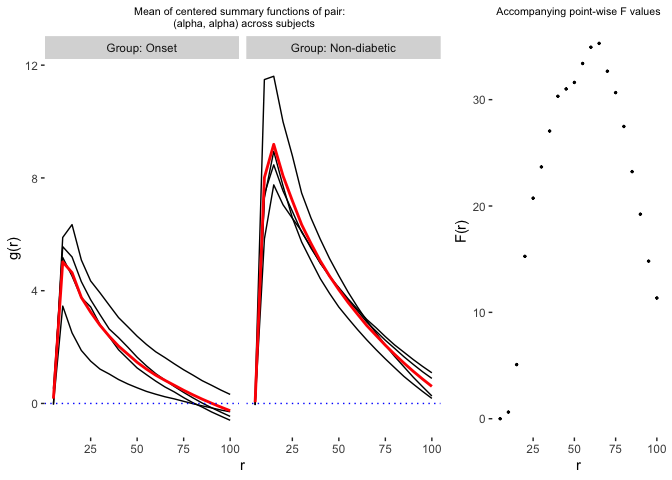
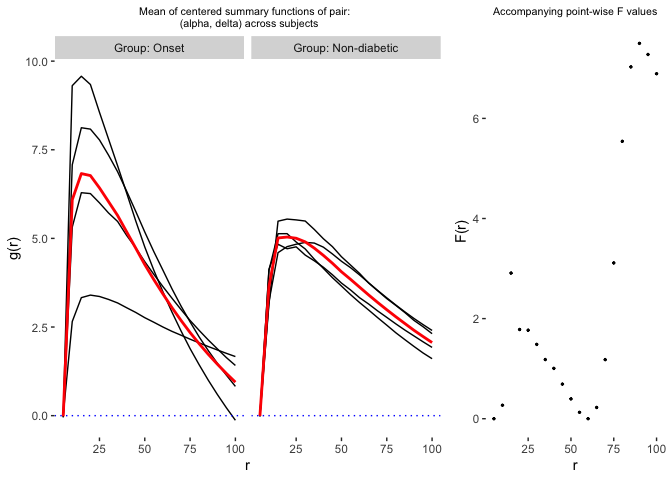
Editing RMD

diff --git a/README.md b/README.md
@@ -68,7 +68,7 @@ IMC_T1DM %>% group_by(Group, ID) %>% reframe(n = n()) # check group and subject 
 # 8 Onset        6380  129456
 ```
 
-## Compute the summary functions and perform association analysis
+## Computing the summary functions and performing association analysis
 
 This function can be used to perform the entire analysis at one go,
 starting from summary function estimation to the univariate and
@@ -103,20 +103,13 @@ p_res = p_extract(Final_result)
 Univ_p = p_res[[1]]
 Mult_p = p_res[[2]]
 print(Univ_p)
-#              Others           Tc           Th        alpha        delta
-# Others 7.024697e-01 1.573991e-01 0.6382938507 6.674092e-15 5.816769e-05
-# Tc     1.586754e-01 1.184891e-05 0.6527697145 6.337346e-10 2.884948e-01
-# Th     6.580101e-01 6.696070e-01 0.1670743225 3.603094e-03 7.285186e-04
-# alpha  5.226819e-15 4.773142e-10 0.0054382865 1.354056e-12 1.578452e-04
-# delta  7.196331e-05 2.449268e-01 0.0002732137 1.480241e-04 5.430399e-05
-# beta   7.662073e-02 2.182450e-01 0.0182817150 5.314018e-02 1.998622e-04
-#                beta
-# Others 7.249158e-02
-# Tc     2.179089e-01
-# Th     9.915701e-03
-# alpha  2.861402e-02
-# delta  5.455496e-06
-# beta   3.044358e-01
+#              Others        Tc         Th      alpha        delta         beta
+# Others 8.474846e-01 0.6866840 0.13303316 0.45069913 6.881440e-05 0.9678262142
+# Tc     7.434272e-01 0.6128606 0.29290798 0.73439983 8.210282e-01 0.2236579375
+# Th     1.523624e-01 0.3168485 0.48013287 0.08395683 2.089698e-01 0.3440282474
+# alpha  5.123916e-01 0.7582440 0.08562479 0.65836211 1.034695e-01 0.1737056382
+# delta  6.107978e-05 0.8436952 0.24046243 0.10190551 4.103538e-05 0.6035343705
+# beta   9.405535e-01 0.2248366 0.33913670 0.17895833 6.053171e-01 0.0001224144
 ```
 
 ## Heatmap of -log10 of p-values
@@ -139,7 +132,7 @@ Plot.heatmap(Mult_p, main = "SpaceANOVA Mult.")
 
 Next, we can check the summary functions corresponding to those pairs of
 cell types whose p-values turned out to be significant. Here, we
-visualize the g-functions of pairs: (alpha, alpha) and (beta, Th). For
+visualize the g-functions of pairs: (alpha, delta) and (beta, Th). For
 every pair, the first panel shows subject-level mean functions (averaged
 across the images of a subject), while the second panel shows
 image-level summary functions. We also display the point-wise F-values
@@ -147,17 +140,17 @@ which might help to understand which particular values of the radius r
 are most influential, i.e., where the maximum difference between the
 group-level summary functions are observed.
 
-### Pair: (alpha, alpha)
+### Pair: (alpha, delta)
 
-We notice that the spatial co-occurrence of alpha cells is positive in
-both the groups but decreases in the “Onset” group.
+We notice that the spatial co-occurrence of alpha and delta cells is
+positive in both the groups but higher in the “Onset” group.
 
 ``` r
 Pointwise_Fvals = Final_result[[1]][[2]]
 Functional_results = Final_result[[2]]
 
-# Pair: (alpha, alpha)
-Plot.functions(Functional_results, pair = c("alpha", "alpha"), Fvals = Pointwise_Fvals)
+# Pair: (alpha, delta)
+Plot.functions(Functional_results, pair = c("alpha", "delta"), Fvals = Pointwise_Fvals)
 # [[1]]
 ```
 
@@ -189,7 +182,7 @@ Plot.functions(Functional_results, pair = c("beta", "Tc"), Fvals = Pointwise_Fva
 
 ## Visualizing cellular organization
 
-We canvisualize cellular organization in different images of every
+We can visualize cellular organization in different images of every
 subject. Here, 4 images each are shown for two subjects, “6126” from
 group “Non-diabetic” and “6414” from group “Onset”.
 
